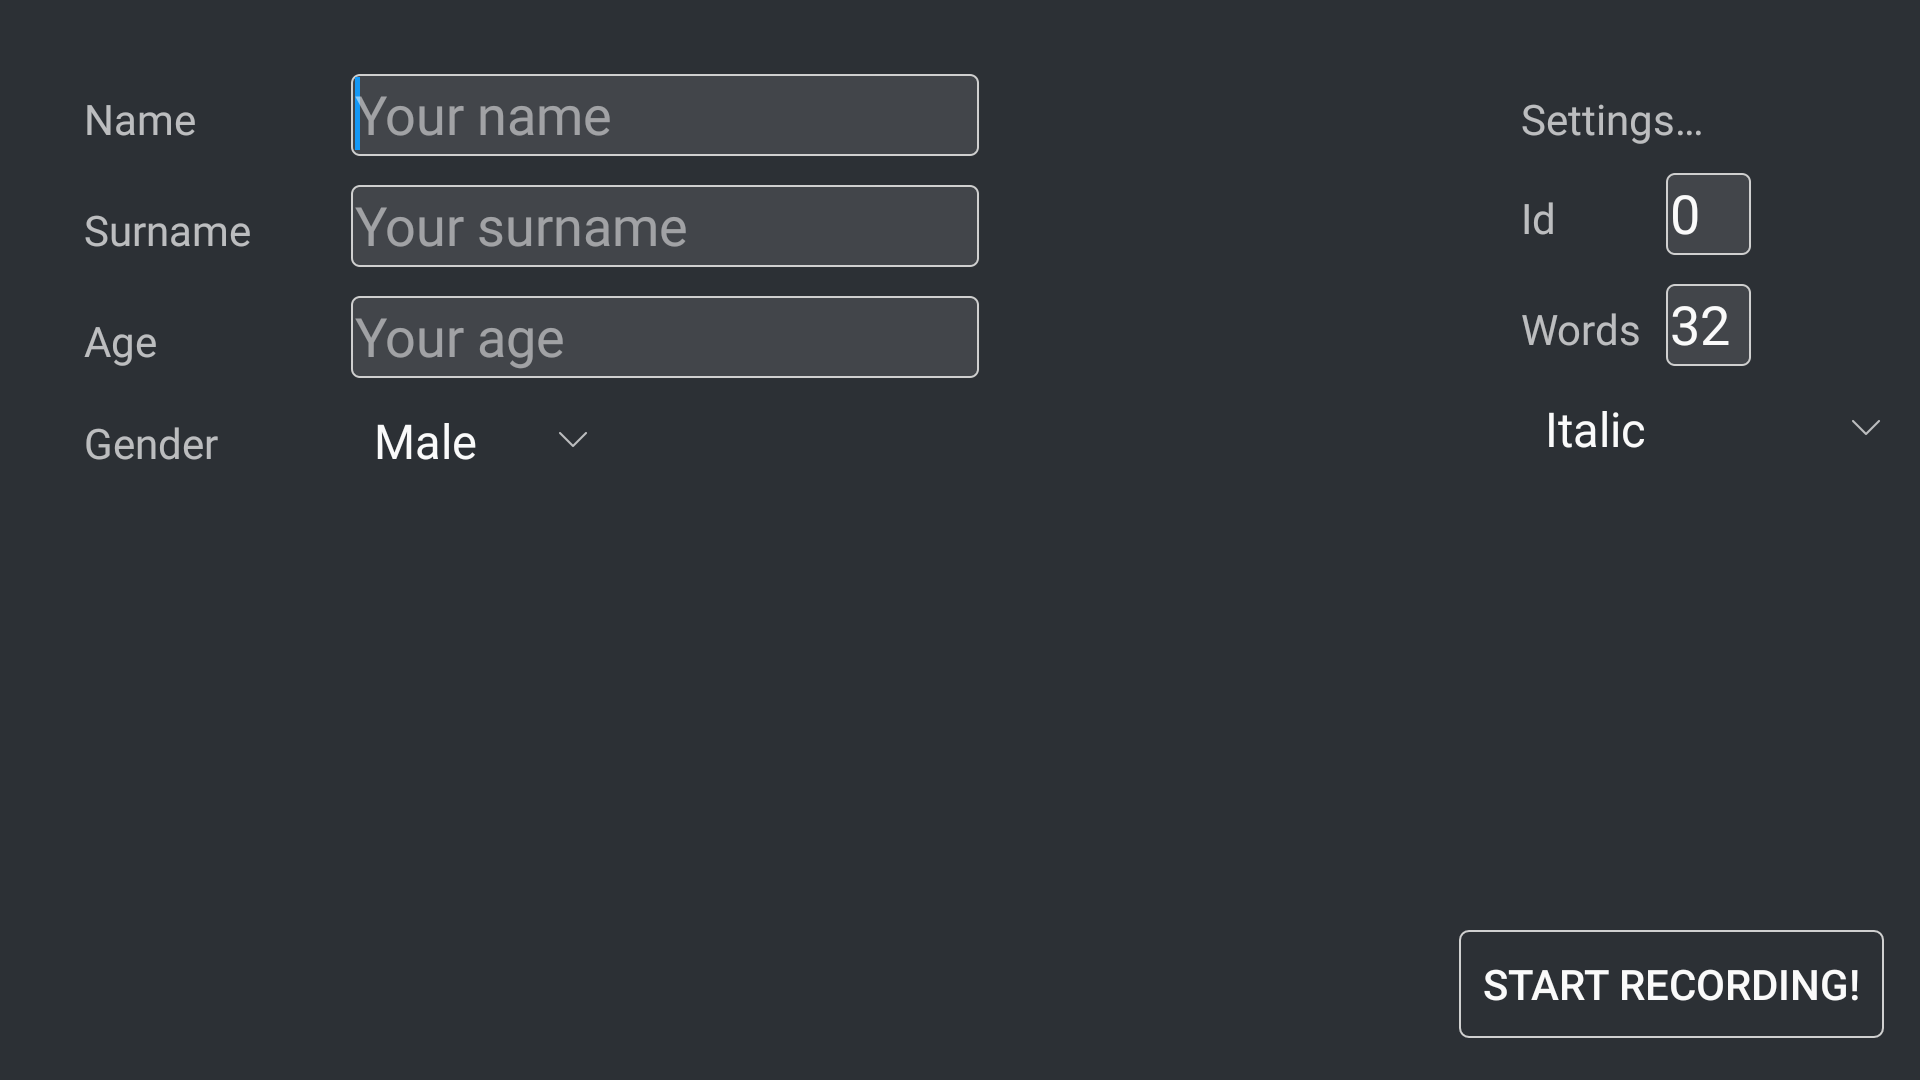
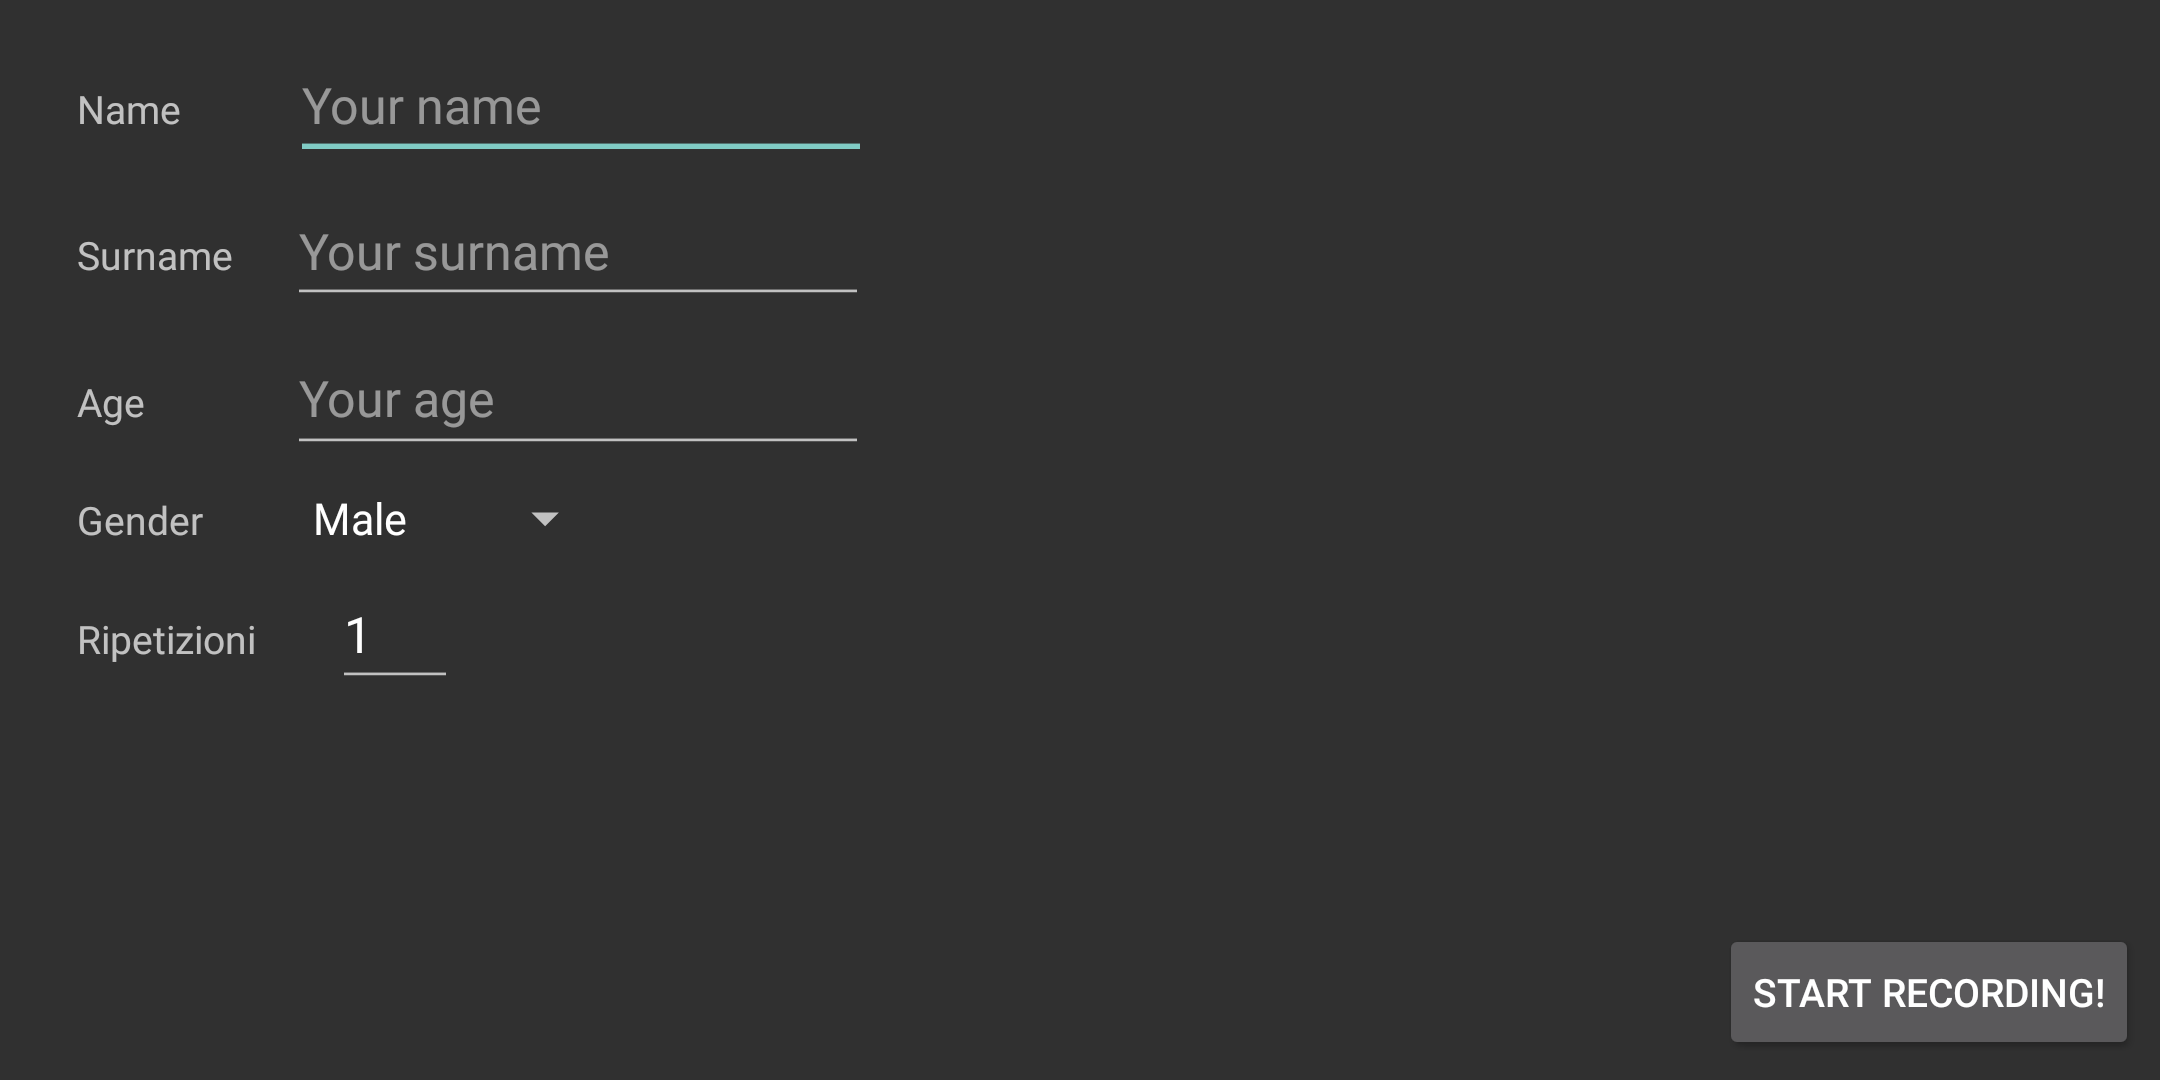
Update README

diff --git a/README.md b/README.md
@@ -2,23 +2,42 @@
 
 An Android application that facilitates the gathering of touchscreen data. The initial purpose of the application was to gather data and build a dataset to perform machine learning on it.
 
-The user first must insert his data. The words field determines how many times the user must write something.
-![](docs/images/user_view.png?raw=true)
-
+The user first must insert his data.
+The field repetitions indicates how many times each item must be drawn by the same user.
+![user_view](docs/images/user_view.png?raw=true)
 
 Then he can start recording, writing or painting on the touchscreen:
-![Alt text](docs/images/draw_view.png?raw=true)
-![Alt text](docs/images/draw_view2.png?raw=true)
+![draw_view](docs/images/draw_view.png?raw=true)
+![draw_view2](docs/images/draw_view2.png?raw=true)
 
 For each point is recorded the relative time and the connected component in which it appears (if we see the picture as a graph).
 
-The points are:
+The points are highlighted in:
 
 - Green: where an event of TOUCH_DOWN happened
 - Red: where an event of TOUCH_UP happened
 - White: where an event of TOUCH_MOVE happened
 
-The points are approximated by a Bezier curve. That curve is later sampled, one point each 5 pixel. (those points don't have the time component)
+The points are approximated by a Bezier curve, which is displayed in order to give a feedback to the user.
+That curve is later sampled, one point each 5 pixel. Note that those points don't have the time component.
 ![Alt text](docs/images/draw_view3.png?raw=true)
 
-Finally all the data recorded is saved in a .json, togheter with a screenshot, in a folder of the main storage determined by the user data.
+Finally all the data recorded is saved in a .json, together with a screenshot, in a folder of the main storage determined by the user data, the item and the timestamp.
+
+___
+
+It is possible to configure the behaviour of the application through a configuration file, present in the folder created by the application the first time that it is run (if not already present).
+
+```json
+{
+  "guide_lines": false,
+  "items": [
+    "item1",
+    "item2",
+    ...
+  ],
+  "repetitions": 5,
+  "repetitions_label": "Repetitions",
+  "title": "Draw: "
+}
+```
